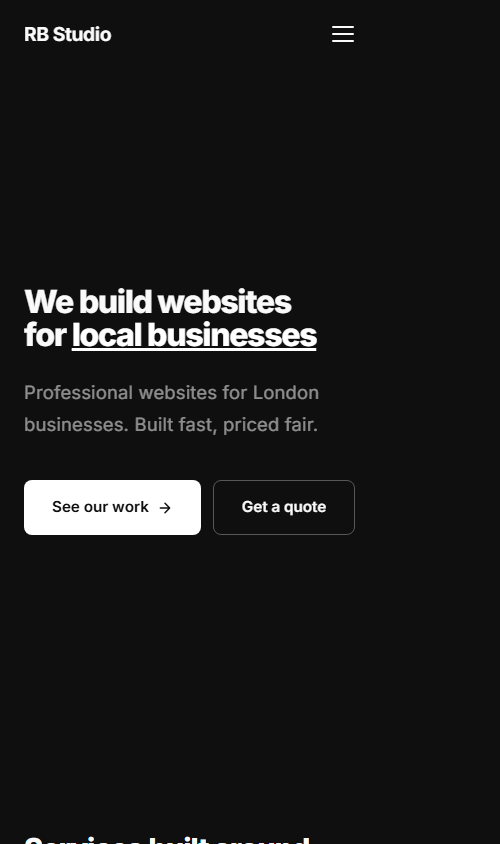
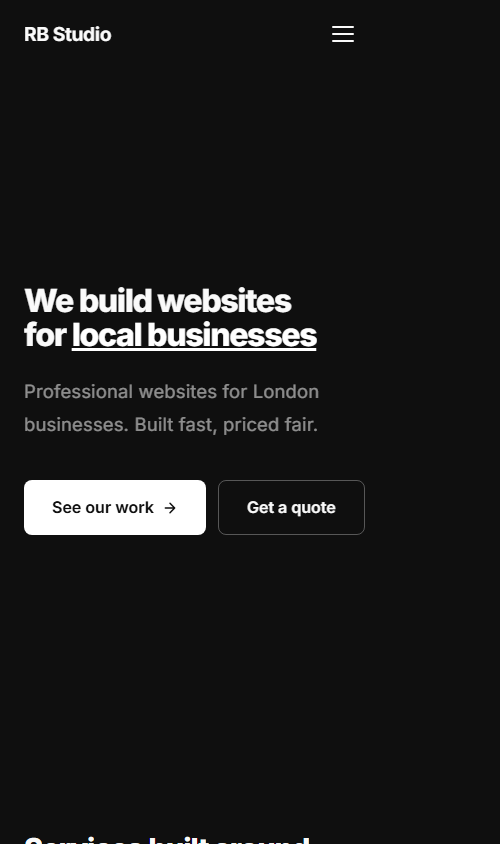
Apply audit fixes: 16px secondary text, mobile tap areas, nav targets
Raise secondary labels, card titles, the footer brand and button labels
to 16px. Stretch mobile menu links so the full row is tappable, and
give desktop nav links a 44px tap height. Refresh renders.

diff --git a/index.html b/index.html
@@ -120,7 +120,7 @@
       font-weight: 400;
       color: var(--muted);
       text-decoration: none;
-      padding: 8px 0;
+      padding: 12px 0;
       transition: color 0.2s ease;
     }
 
@@ -180,7 +180,7 @@
       gap: 8px;
       padding: 14px 28px;
       border-radius: 8px;
-      font-size: 0.95rem;
+      font-size: 1rem;
       font-weight: 600;
       text-decoration: none;
       cursor: pointer;
@@ -507,13 +507,13 @@
     }
 
     .work-card-label {
-      font-size: 0.88rem;
+      font-size: 1rem;
       font-weight: 600;
       color: var(--text);
     }
 
     .work-card-niche {
-      font-size: 0.76rem;
+      font-size: 1rem;
       color: var(--muted);
       margin-top: 2px;
     }
@@ -691,7 +691,7 @@
     }
 
     .footer-logo {
-      font-size: 0.95rem;
+      font-size: 1rem;
       font-weight: 700;
       color: var(--text);
       text-decoration: none;
@@ -771,7 +771,7 @@
 
     .pricing-tag {
       display: inline-block;
-      font-size: 0.78rem;
+      font-size: 1rem;
       font-weight: 400;
       color: var(--muted);
       margin-top: 6px;
@@ -883,7 +883,7 @@
     }
 
     .testimonial-biz {
-      font-size: 0.78rem;
+      font-size: 1rem;
       color: var(--muted);
     }
 
@@ -891,6 +891,7 @@
     .mobile-menu {
       display: flex;
       flex-direction: column;
+      align-items: stretch;
       gap: 0;
       position: fixed;
       top: var(--nav-height);
